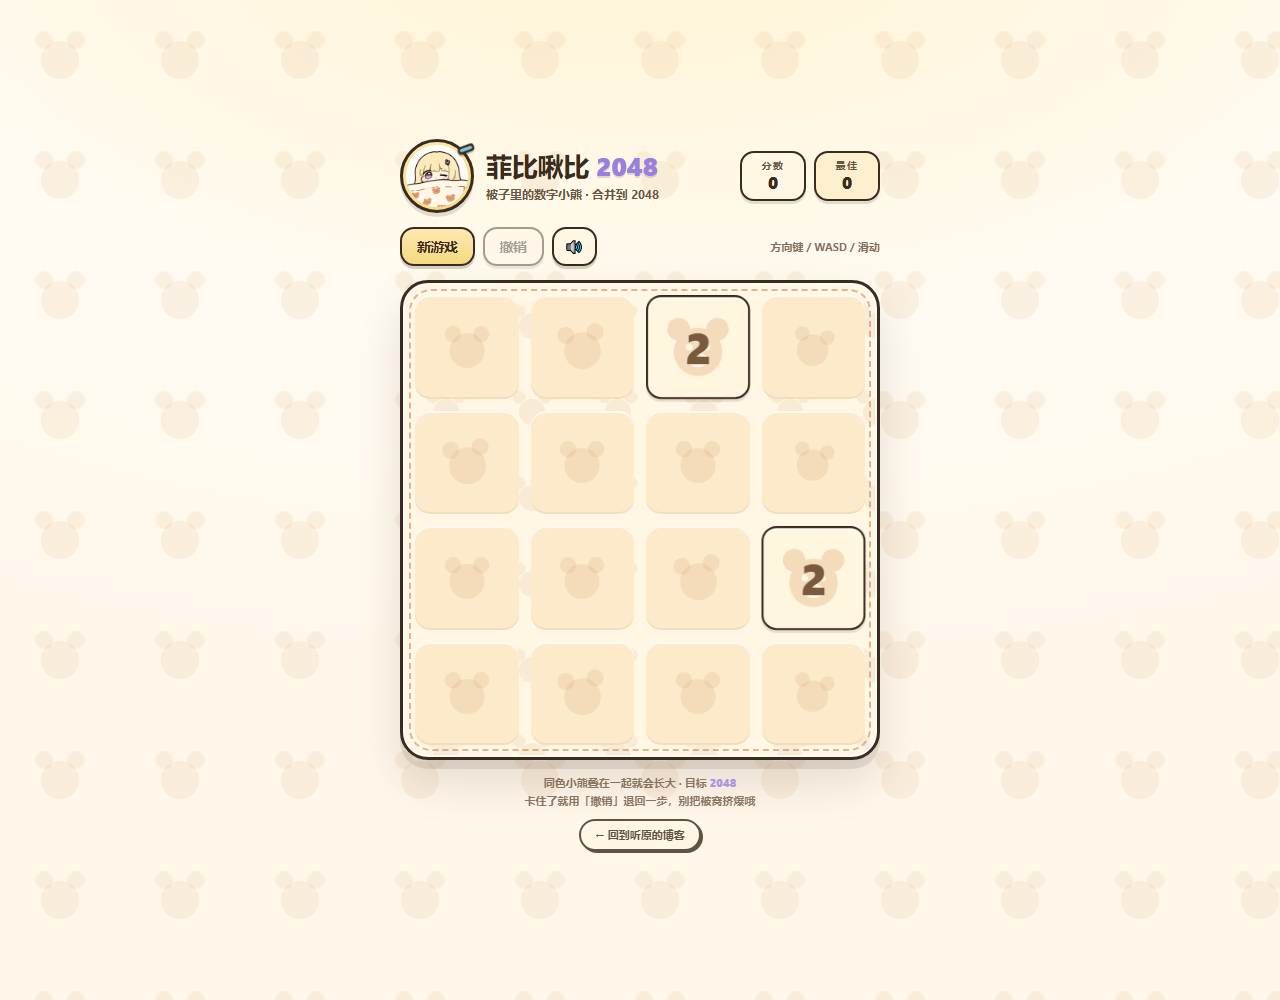
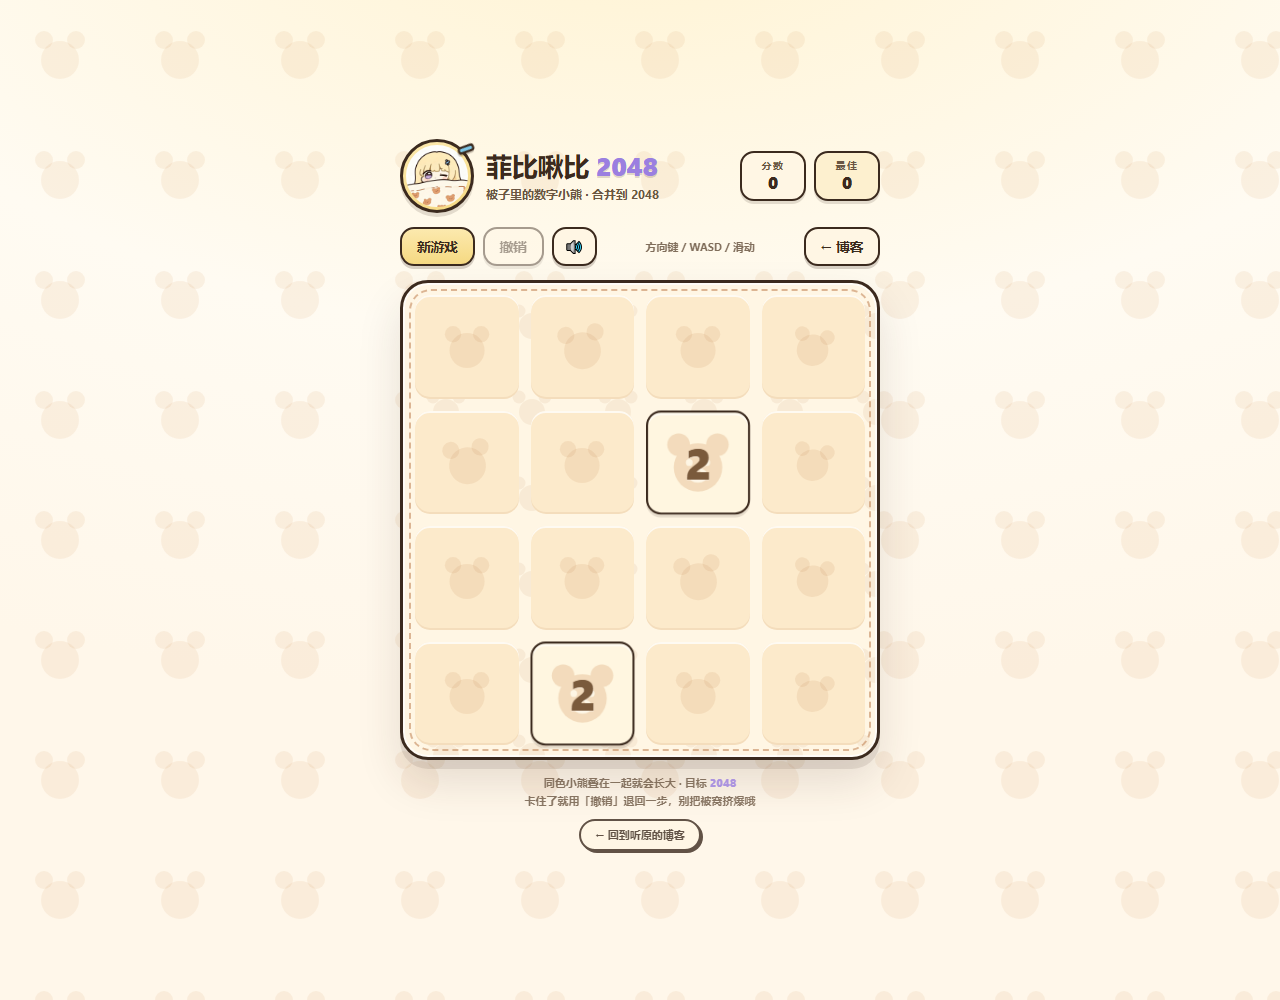
导航加 2048 入口，游戏页工具栏加返回按钮，420px 以下收紧导航

diff --git a/games/phoebe-2048/index.html b/games/phoebe-2048/index.html
@@ -183,6 +183,8 @@
   }
   .btn.primary:hover{ background:linear-gradient(180deg,#FDF0C4,#F3D277); }
   .btn.icon{ padding:8px 11px; font-size:14px; }
+  a.btn{ display:inline-flex; align-items:center; text-decoration:none; }
+  .back-to-blog{ margin-left:auto; }
   .hint{
     margin-left:auto;
     font-size:11px;
@@ -472,6 +474,7 @@
     <button class="btn" id="undoBtn">撤销</button>
     <button class="btn icon" id="soundBtn" aria-label="音效开关" title="音效开关">🔊</button>
     <span class="hint">方向键 / WASD / 滑动</span>
+    <a class="btn back-to-blog" href="../../index.html">← 博客</a>
   </div>
 
   <div class="board" id="board">

diff --git a/assets/style.css b/assets/style.css
@@ -597,6 +597,19 @@ footer {
   .about-head .hero-avatar { width: 76px; height: 76px; }
 }
 
+/* 导航有四个链接后，420px 以下开始收紧：先收间距和字号，再让头像让位 */
+@media (max-width: 420px) {
+  .nav-inner { padding: 10px 14px; gap: 10px; }
+  .nav-links { gap: 11px; font-size: 13px; }
+  .nav-links a::after { bottom: -3px; }
+  .nav-avatar { display: none; }
+  .brand { font-size: 16px; }
+}
+
+@media (max-width: 340px) {
+  .nav-links { gap: 9px; font-size: 12.5px; }
+}
+
 @media (prefers-reduced-motion: reduce) {
   * { transition: none !important; animation: none !important; scroll-behavior: auto !important; }
 }

diff --git a/about.html b/about.html
@@ -41,6 +41,7 @@
       <a href="index.html">首页</a>
       <a href="archive.html">归档</a>
       <a href="about.html" aria-current="page">关于</a>
+      <a href="games/phoebe-2048/">2048</a>
     </div>
     <a class="nav-avatar" href="about.html" aria-label="关于我">
       <img src="assets/img/avatar.webp" alt="" width="34" height="34">

diff --git a/archive.html b/archive.html
@@ -40,6 +40,7 @@
       <a href="index.html">首页</a>
       <a href="archive.html" aria-current="page">归档</a>
       <a href="about.html">关于</a>
+      <a href="games/phoebe-2048/">2048</a>
     </div>
     <a class="nav-avatar" href="about.html" aria-label="关于我">
       <img src="assets/img/avatar.webp" alt="" width="34" height="34">

diff --git a/index.html b/index.html
@@ -57,6 +57,7 @@
       <a href="index.html" aria-current="page">首页</a>
       <a href="archive.html">归档</a>
       <a href="about.html">关于</a>
+      <a href="games/phoebe-2048/">2048</a>
     </div>
     <a class="nav-avatar" href="about.html" aria-label="关于我">
       <img src="assets/img/avatar.webp" alt="" width="34" height="34">

diff --git a/posts/android-ai-image-studio.html b/posts/android-ai-image-studio.html
@@ -71,6 +71,7 @@
       <a href="../index.html">首页</a>
       <a href="../archive.html">归档</a>
       <a href="../about.html">关于</a>
+      <a href="../games/phoebe-2048/">2048</a>
     </div>
     <a class="nav-avatar" href="../about.html" aria-label="关于我">
       <img src="../assets/img/avatar.webp" alt="" width="34" height="34">

diff --git a/posts/build-with-zero-deps.html b/posts/build-with-zero-deps.html
@@ -71,6 +71,7 @@
       <a href="../index.html">首页</a>
       <a href="../archive.html">归档</a>
       <a href="../about.html">关于</a>
+      <a href="../games/phoebe-2048/">2048</a>
     </div>
     <a class="nav-avatar" href="../about.html" aria-label="关于我">
       <img src="../assets/img/avatar.webp" alt="" width="34" height="34">

diff --git a/posts/hello-world.html b/posts/hello-world.html
@@ -71,6 +71,7 @@
       <a href="../index.html">首页</a>
       <a href="../archive.html">归档</a>
       <a href="../about.html">关于</a>
+      <a href="../games/phoebe-2048/">2048</a>
     </div>
     <a class="nav-avatar" href="../about.html" aria-label="关于我">
       <img src="../assets/img/avatar.webp" alt="" width="34" height="34">

diff --git a/posts/text-recognition-clicker.html b/posts/text-recognition-clicker.html
@@ -71,6 +71,7 @@
       <a href="../index.html">首页</a>
       <a href="../archive.html">归档</a>
       <a href="../about.html">关于</a>
+      <a href="../games/phoebe-2048/">2048</a>
     </div>
     <a class="nav-avatar" href="../about.html" aria-label="关于我">
       <img src="../assets/img/avatar.webp" alt="" width="34" height="34">

diff --git a/404.html b/404.html
@@ -24,6 +24,7 @@
       <a href="index.html">首页</a>
       <a href="archive.html">归档</a>
       <a href="about.html">关于</a>
+      <a href="games/phoebe-2048/">2048</a>
     </div>
     <a class="nav-avatar" href="about.html" aria-label="关于我">
       <img src="assets/img/avatar.webp" alt="" width="34" height="34">

diff --git a/README.md b/README.md
@@ -173,12 +173,15 @@ document.documentElement.setAttribute('data-theme',t);}catch(e){}})();
 
 1. 建目录 `games/你的游戏/`，把 `index.html` 和素材放进去，**入口文件名必须是 `index.html`**，地址才是 `/games/你的游戏/`
 2. 页面 `<head>` 补 `description`、`canonical`、`og:*`，参照 `games/phoebe-2048/index.html`
-3. 页面里留一个回博客的入口，否则用户进去就出不来：
+3. 页面里留两个回博客的入口，否则用户进去就出不来：工具栏里一个按钮，页脚一个链接
    ```html
+   <a class="btn back-to-blog" href="../../index.html">← 博客</a>
    <a class="blog-back" href="../../index.html">← 回到听原的博客</a>
    ```
 4. 首页 `</main>` 前加一块 `.game-card`，缩略图建议压到 480px 宽的 WebP（`games/phoebe-2048/preview-small.webp` 是 15KB）
-5. 全站页脚的「游戏」入口指向最常用的那个；`sitemap.xml` 加一条 `<url>`
+5. 顶部导航 `nav-links` 里加一项 `2048`（指向 `games/phoebe-2048/`），全站页脚也加一个「游戏」入口；`sitemap.xml` 加一条 `<url>`
+
+导航在 420px 以下会自动收紧：间距和字号变小，头像隐藏（「关于」链接还在，不影响导航），这样四个链接也塞得下 360px 宽的屏幕。
 
 游戏页不继承博客的 CSS，样式自带，所以主题切换、进度条那些不会出现在游戏里——这是故意的，游戏要保持自己的画面。
 
